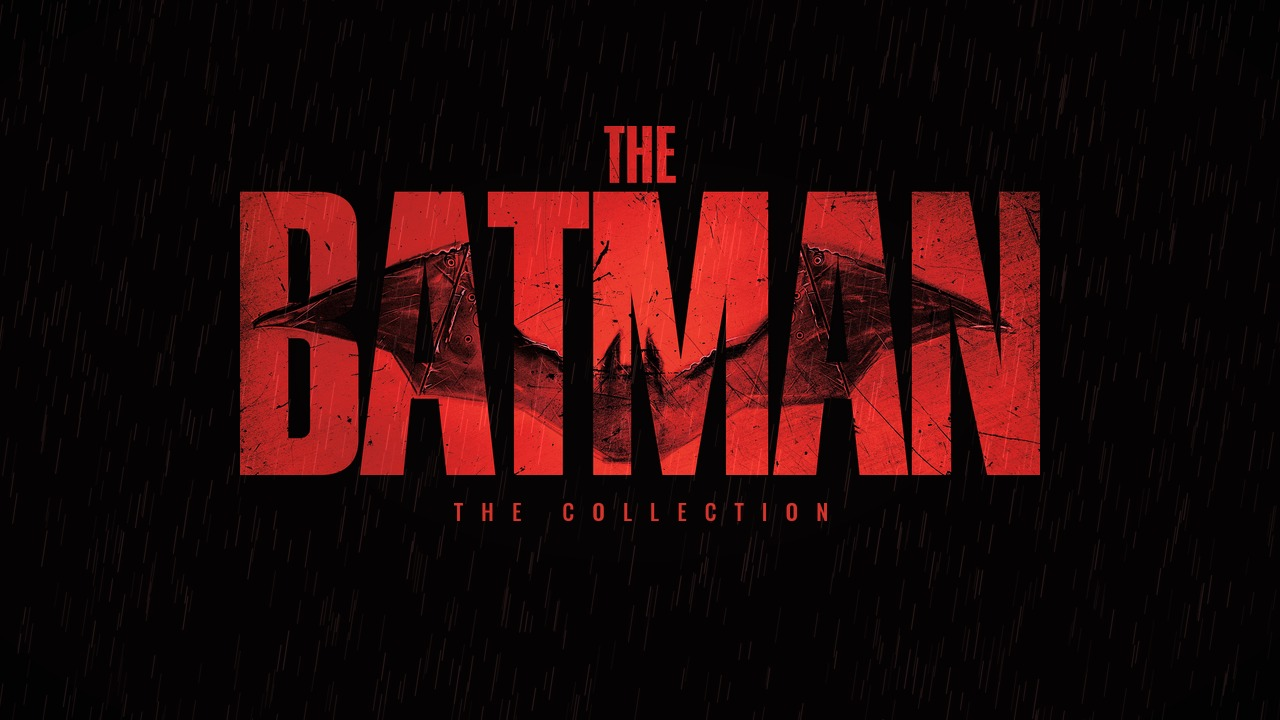
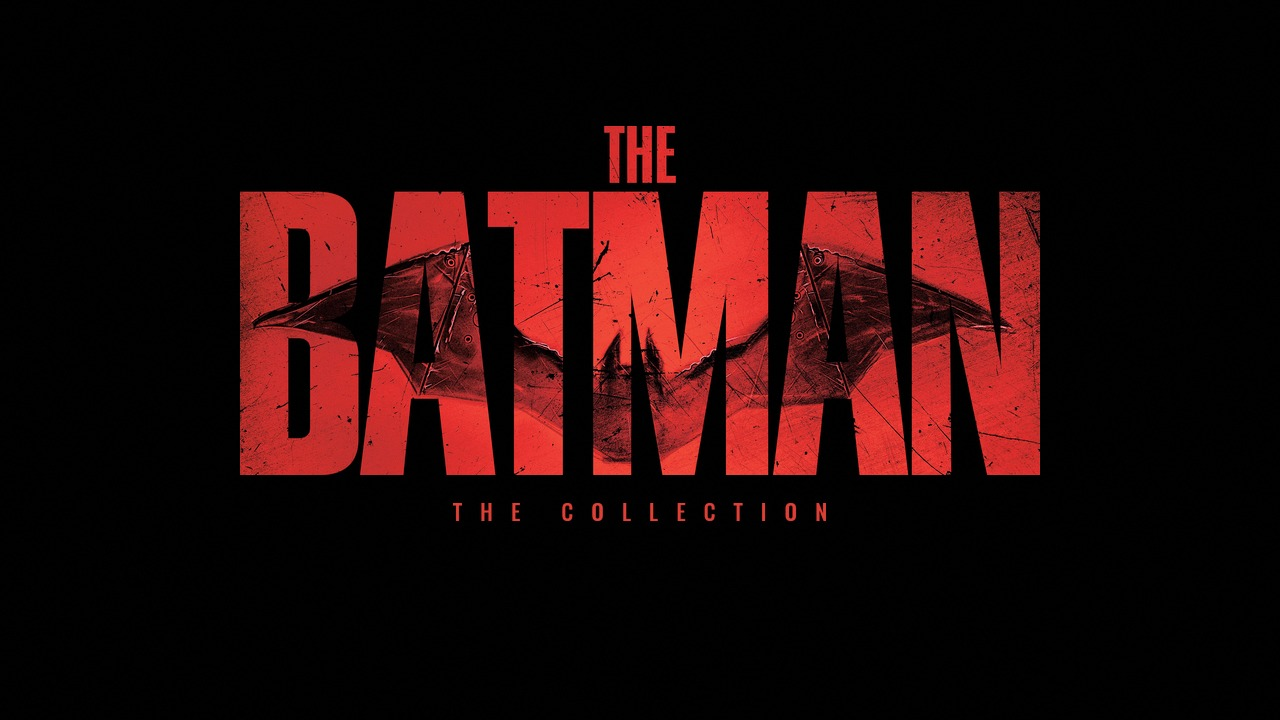
batman: new card (the hallway, lit by gunfire)
Claude-Session: https://claude.ai/code/session_01QqcAdMGokHGeFf5PAk1q99

Changed region(s): [[0.4375, 0.7028, 0.6562, 0.7333], [0.375, 0.7028, 0.4062, 0.7333]]

diff --git a/art/universes/batman/_src/README.md b/art/universes/batman/_src/README.md
@@ -1,7 +1,14 @@
-Batman card (title ident), rendered by nuvio-awards/art_tools/batman_ident.py:
-  python3 art_tools/batman_ident.py <this _src dir> <out dir>
+Batman card, rendered by nuvio-awards/art_tools/batman_light.py. Published: --mode hallway.
+  python3 art_tools/batman_light.py <this _src dir> <out dir> --mode hallway
+--mode hallway: The Batman (2022) hallway: the power is cut and the only light is the gunfire. The red title goes dark;
+  short hard bursts of light from off the frame (only their light, never the flashes) strike it from one side then
+  another, throwing its shadow on the concrete behind; between bursts it is black and the camera has stepped closer;
+  the light comes back like a fluorescent tube catching.
+--mode signal (kept, not published): the film's Bat-Signal on the clouds (signal.jpg) comes up over the title and
+  lights its edges from behind.
+The earlier card (bat swarm, flare) is batman_ident.py, kept in the repo.
 - title.png: The Batman (2022) title logo on TMDB (film 414906, logo haibnO2TycgulXD1Fj7b94L9m9E).
-- title_nobat.png / title_batmask.png: the letters with the welded bat taken out, and the bat's mask; built from
-  title.png by the script's prep() on the first run (delete them to rebuild).
+- title_nobat.png / title_batmask.png: the letters without the welded bat, and the bat's mask (built by batman_ident.py).
+- signal.jpg: TMDB backdrop 4evjdaPnAimHieQzQR0wgTbqc4M (film 414906), signal mode.
 - Oswald (THE COLLECTION): SIL Open Font License, included.
 - backdrop.jpg is unchanged (Batman 1989 still).
